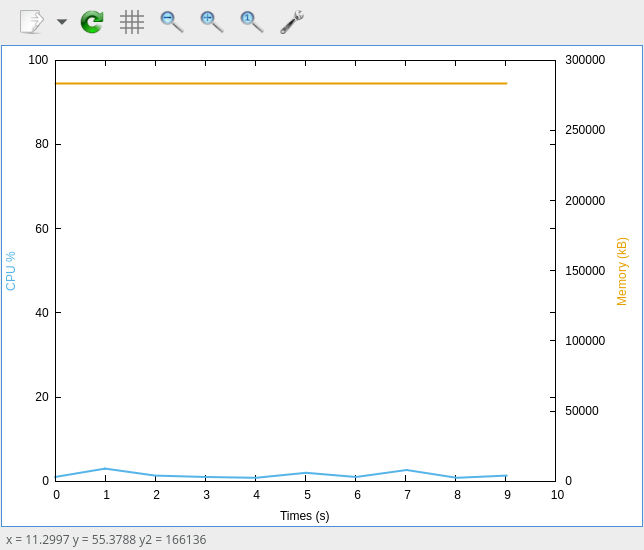
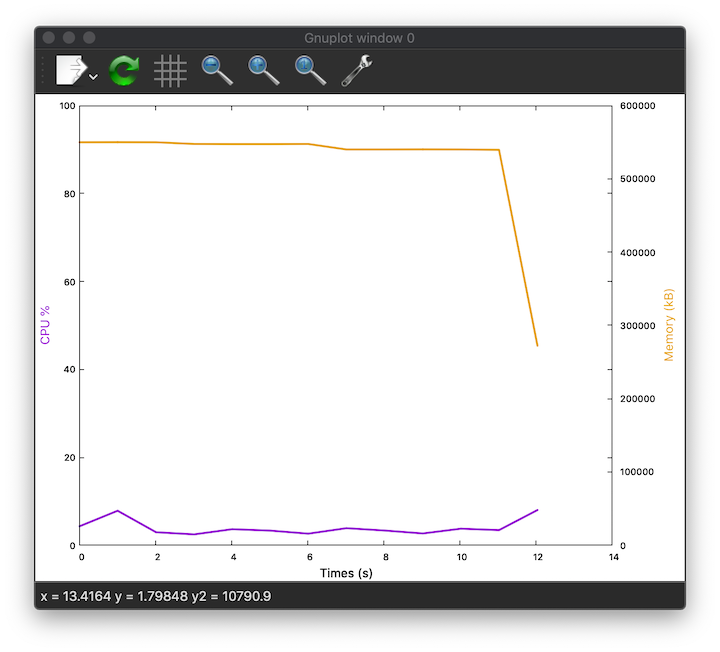
Refactored to use psutil crate for macos support

Changed region(s): [[0.0, 0.0, 1.0, 0.9891], [0.7143, 0.34, 0.7453, 0.5255], [0.7143, 0.7727, 0.7453, 0.8036]]

diff --git a/src/main.rs b/src/main.rs
@@ -16,11 +16,9 @@
 
 use clap::{crate_authors, crate_version, Clap};
 use ctrlc;
-use procfs::process::Process;
-use procfs::process::Stat;
-use procfs::KernelStats;
-use std::convert::TryInto;
+use psutil::process::Process;
 use std::fmt;
+use std::io::Result;
 use std::io::{self, Write};
 use std::process::Command;
 use std::sync::atomic::{AtomicBool, Ordering};
@@ -41,7 +39,7 @@ struct Opts {
     duration: Option<u64>,
     /// Process to be inspected
     #[clap(short = "p", long = "pid")]
-    pid: i32,
+    pid: u32,
     /// A level of verbosity, and can be used multiple times
     #[clap(short = "v", long = "verbose", parse(from_occurrences))]
     verbose: i32,
@@ -54,50 +52,60 @@ struct Opts {
 #[derive(Debug)]
 struct Sample {
     ts: f32,
-    pid: i32,
-    num_threads: i64,
+    pid: u32,
+    //num_threads: u64,
     cpu: f32,
     vsize: u64,
-    rss: i64,
+    rss: u64,
 }
 
 impl fmt::Display for Sample {
     fn fmt(&self, f: &mut fmt::Formatter) -> fmt::Result {
         write!(
             f,
-            "{:.02} PID {} CPU% {:.02} RSS {} VSIZE {} THREADS {}",
-            self.ts, self.pid, self.cpu, self.rss, self.vsize, self.num_threads
+            "{:.02} PID {} CPU% {:.02} RSS {} VSIZE {} ",
+            self.ts, self.pid, self.cpu, self.rss, self.vsize
         )
     }
 }
 
-fn get_total_jiffies() -> f32 {
-    let cpu = KernelStats::new().unwrap().total;
-    cpu.user
-        + cpu.nice
-        + cpu.system
-        + cpu.idle
-        + cpu.iowait.unwrap_or_default()
-        + cpu.irq.unwrap_or_default()
-        + cpu.steal.unwrap_or_default()
-        + cpu.softirq.unwrap_or_default()
-}
-fn get_stat(pid: i32) -> Stat {
-    let target = Process::new(pid).unwrap();
-    target.stat().unwrap()
-}
 fn delay(millis: u64) {
     let timeout = time::Duration::from_millis(millis);
     thread::sleep(timeout);
 }
+fn gnuplot_recording(recording: &[Sample]) -> Result<()> {
+    let gnuplot_script_content = include_str!("../recording.plot");
+    let mut gnuplot_file = NamedTempFile::new()?;
+    gnuplot_file.write_all(gnuplot_script_content.as_bytes())?;
+
+    let mut data_file = NamedTempFile::new()?;
+    for i in recording {
+        data_file.write_all(format!("{}\n", i).as_bytes())?;
+    }
+    data_file.flush()?;
+    let fname_param = format!("filename={:?};", data_file.path().display());
+
+    let output = Command::new("gnuplot")
+        .arg("-e")
+        .arg(fname_param)
+        .arg("-p")
+        .arg(gnuplot_file.path())
+        .output()?;
+
+    if !output.status.success() {
+        println!("status: {}", output.status);
+        io::stdout().write_all(&output.stdout)?;
+        io::stderr().write_all(&output.stderr)?;
+    }
+    Ok(())
+}
 fn main() {
     let opts: Opts = Opts::parse();
 
-    let cores = procfs::CpuInfo::new().unwrap().num_cores() as f32;
+    // SETUP phase
+    let mut pid_proc = Process::new(opts.pid).expect("Failed getting process");
+    let _percent_cpu = pid_proc.cpu_percent();
     let sample_rate = opts.interval * 1000;
-    let mut jiffies1 = get_total_jiffies() / cores;
-    let stats = get_stat(opts.pid);
-    let mut lasttimes = stats.utime + stats.stime;
 
     let mut recording = vec![];
     let mut start: Option<SystemTime> = None;
@@ -108,28 +116,24 @@ fn main() {
         r.store(false, Ordering::SeqCst);
     })
     .expect("Error setting Ctrl-C handler");
+    // MAIN phase
     while running.load(Ordering::SeqCst) {
         delay(sample_rate);
-        let jiffies2 = get_total_jiffies() / cores;
-        let stats = get_stat(opts.pid);
-        let d_j = jiffies2 - jiffies1;
-        jiffies1 = jiffies2;
-        let d_t: f32 = (stats.utime + stats.stime - lasttimes) as f32;
-        let percent_cpu = d_t / d_j as f32;
-        let time_since_start = if start.is_none() {
+        let percent_cpu = pid_proc.cpu_percent().unwrap();
+        let cur_mem = pid_proc.memory_info().unwrap();
+        let time_since_start = if let Some(time) = start {
+            time.elapsed().unwrap().as_secs_f32()
+        } else {
             start = Some(time::SystemTime::now());
             0.0
-        } else {
-            start.unwrap().elapsed().unwrap().as_secs_f32()
         };
-
         let data = Sample {
             ts: time_since_start,
-            pid: opts.pid,
+            pid: pid_proc.pid(),
             cpu: percent_cpu,
-            rss: stats.rss,
-            vsize: stats.vsize,
-            num_threads: stats.num_threads,
+            rss: cur_mem.rss() / 1000,
+            vsize: cur_mem.vms() / 1000,
+            //num_threads: pid_proc.num_threads(),
         };
         if opts.verbose > 0 {
             println!("{}", data);
@@ -140,38 +144,17 @@ fn main() {
                 break;
             }
         }
-        lasttimes = stats.utime + stats.stime;
     }
 
+    // POST phase
     if opts.verbose == 0 {
         for i in &recording {
             println!("{}", i);
         }
     }
     if opts.graph {
-        let gnuplot_script_content = include_str!("../recording.plot");
-        let mut gnuplot_file = NamedTempFile::new().unwrap();
-        gnuplot_file.write_all(gnuplot_script_content.as_bytes());
-
-        let mut data_file = NamedTempFile::new().unwrap();
-        for i in &recording {
-            data_file.write_all(format!("{}\n", i).as_bytes());
-        }
-        data_file.flush();
-        let fname_param = format!("filename={:?};", data_file.path().display());
-
-        let output = Command::new("gnuplot")
-            .arg("-e")
-            .arg(fname_param)
-            .arg("-p")
-            .arg(gnuplot_file.path())
-            .output()
-            .expect("failed to execute process");
-
-        if !output.status.success() {
-            println!("status: {}", output.status);
-            io::stdout().write_all(&output.stdout).unwrap();
-            io::stderr().write_all(&output.stderr).unwrap();
+        if let Err(err) = gnuplot_recording(&recording) {
+            println!("Fatal error calling gnuplot: {}", err);
         }
     }
 }

diff --git a/README.md b/README.md
@@ -2,7 +2,7 @@
 
 A simple recorder for cpu and memory usage of processes.
 
-Currently, limited to linux but support for macOS might come in the future. Results are outputted in machine parsable format to stdout or can be directly plotted using gnuplot (must be in `$PATH`).
+Currently, linux as well as macos are supported. Results are outputted in machine parsable format to stdout or can be directly plotted using gnuplot (must be in `$PATH`).
 
 ## Installation
 
@@ -48,7 +48,7 @@ OPTIONS:
 
 Interactive recording of specific process:
 ```
-$ pgrep chrome
+$ pgrep iTerm
 4730
 4742
 4748
@@ -56,16 +56,19 @@ $ pgrep chrome
 4772
 
 $ procrec -p 4730 -g -i 1 -v
-0.00 PID 4730 CPU% 1.00 RSS 283265 VSIZE 3794771968 THREADS 33
-1.00 PID 4730 CPU% 3.00 RSS 283263 VSIZE 3794771968 THREADS 33
-2.00 PID 4730 CPU% 1.33 RSS 283263 VSIZE 3794771968 THREADS 33
-3.01 PID 4730 CPU% 1.00 RSS 283265 VSIZE 3794771968 THREADS 33
-4.01 PID 4730 CPU% 0.80 RSS 283265 VSIZE 3794771968 THREADS 33
-5.01 PID 4730 CPU% 2.00 RSS 283265 VSIZE 3794771968 THREADS 34
-6.01 PID 4730 CPU% 1.00 RSS 283265 VSIZE 3794771968 THREADS 34
-7.02 PID 4730 CPU% 2.67 RSS 283288 VSIZE 3794771968 THREADS 34
-8.02 PID 4730 CPU% 0.80 RSS 283288 VSIZE 3794771968 THREADS 34
-^C9.02 PID 4730 CPU% 1.33 RSS 283288 VSIZE 3794771968 THREADS 34
+0.00 PID 1119 CPU% 4.32 RSS 549793 VSIZE 10123419
+1.00 PID 1119 CPU% 7.84 RSS 549863 VSIZE 10123137
+2.01 PID 1119 CPU% 2.96 RSS 549830 VSIZE 10119688
+3.01 PID 1119 CPU% 2.47 RSS 547377 VSIZE 10087645
+4.01 PID 1119 CPU% 3.65 RSS 547340 VSIZE 10091315
+5.01 PID 1119 CPU% 3.31 RSS 547340 VSIZE 10091315
+6.01 PID 1119 CPU% 2.63 RSS 547377 VSIZE 10087645
+7.01 PID 1119 CPU% 3.87 RSS 539983 VSIZE 10074480
+8.01 PID 1119 CPU% 3.34 RSS 539992 VSIZE 10074480
+9.02 PID 1119 CPU% 2.68 RSS 540028 VSIZE 10070810
+10.02 PID 1119 CPU% 3.75 RSS 539992 VSIZE 10074480
+11.02 PID 1119 CPU% 3.43 RSS 539451 VSIZE 10073919
+^C12.03 PID 1119 CPU% 8.01 RSS 272269 VSIZE 9775452
 
 ```
 
